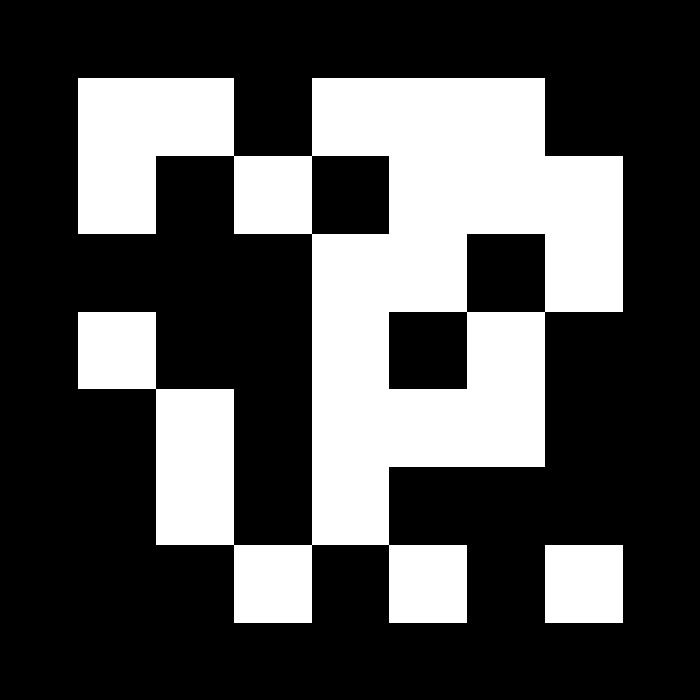
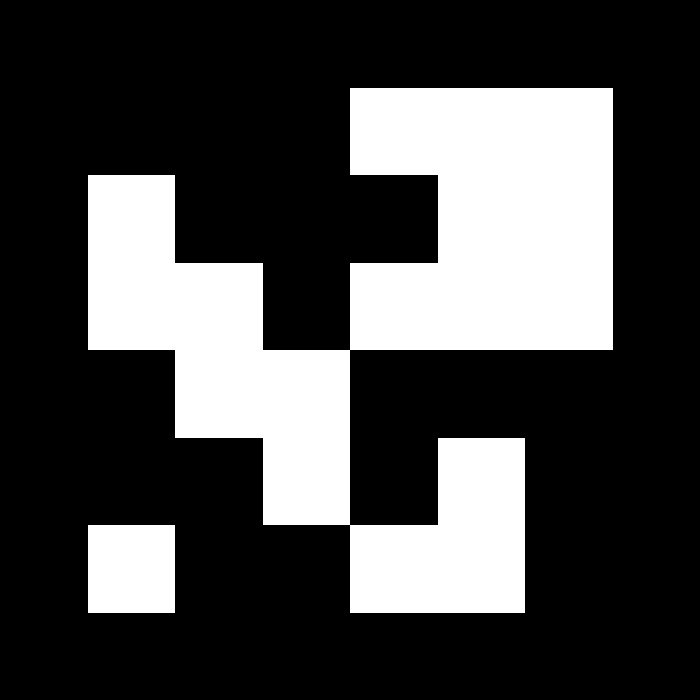
more images

diff --git a/Fiducial/main.py b/Fiducial/main.py
@@ -24,19 +24,20 @@ def customDictionary():
 
 
 def generateMarker():
-    markerDict = aruco.getPredefinedDictionary(aruco.DICT_7X7_1000)
-    for i in range(10):
+    markerDict = aruco.getPredefinedDictionary(aruco.DICT_6X6_1000)
+    for i in range(20):
         marker = aruco.generateImageMarker(markerDict, i, 700)
         cv.imwrite(f"Images\\marker{i}.jpg", marker)
     
     
 def showCamera():
-    fs = cv.FileStorage("arucoDict.yaml", cv.FILE_STORAGE_READ)
-    bytesList = np.frombuffer(fs.getNode("aruco_dict").mat().tobytes(), dtype=np.uint8)
-    nMarkers = fs.getNode("nMarkers").real()
-    markerSize = fs.getNode("markerSize").real()
-    markerDict = aruco.Dictionary_getByteListFromBits(bytesList)
-    fs.release()
+    # fs = cv.FileStorage("arucoDict.yaml", cv.FILE_STORAGE_READ)
+    # bytesList = np.frombuffer(fs.getNode("aruco_dict").mat().tobytes(), dtype=np.uint8)
+    # nMarkers = fs.getNode("nMarkers").real()
+    # markerSize = fs.getNode("markerSize").real()
+    # markerDict = aruco.Dictionary_getByteListFromBits(bytesList)
+    # fs.release()
+    markerDict = aruco.getPredefinedDictionary(aruco.DICT_6X6_1000)
     
     # for item in markerDict.writeDictionary():
     #     print(item)
@@ -74,6 +75,7 @@ def showCamera():
 
 
 def main():
+    generateMarker()
     showCamera()
 if __name__ == '__main__':
     main()
